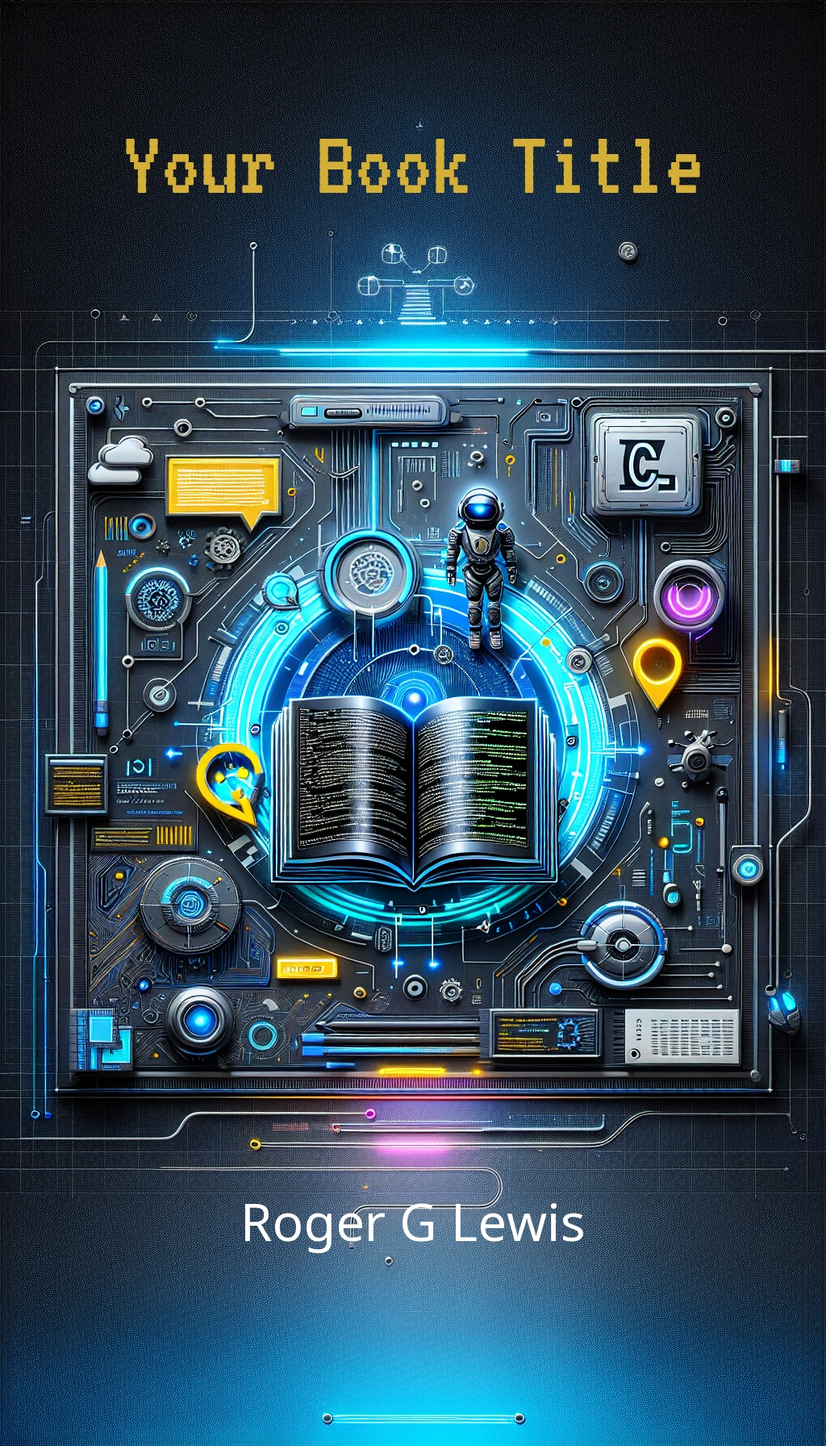
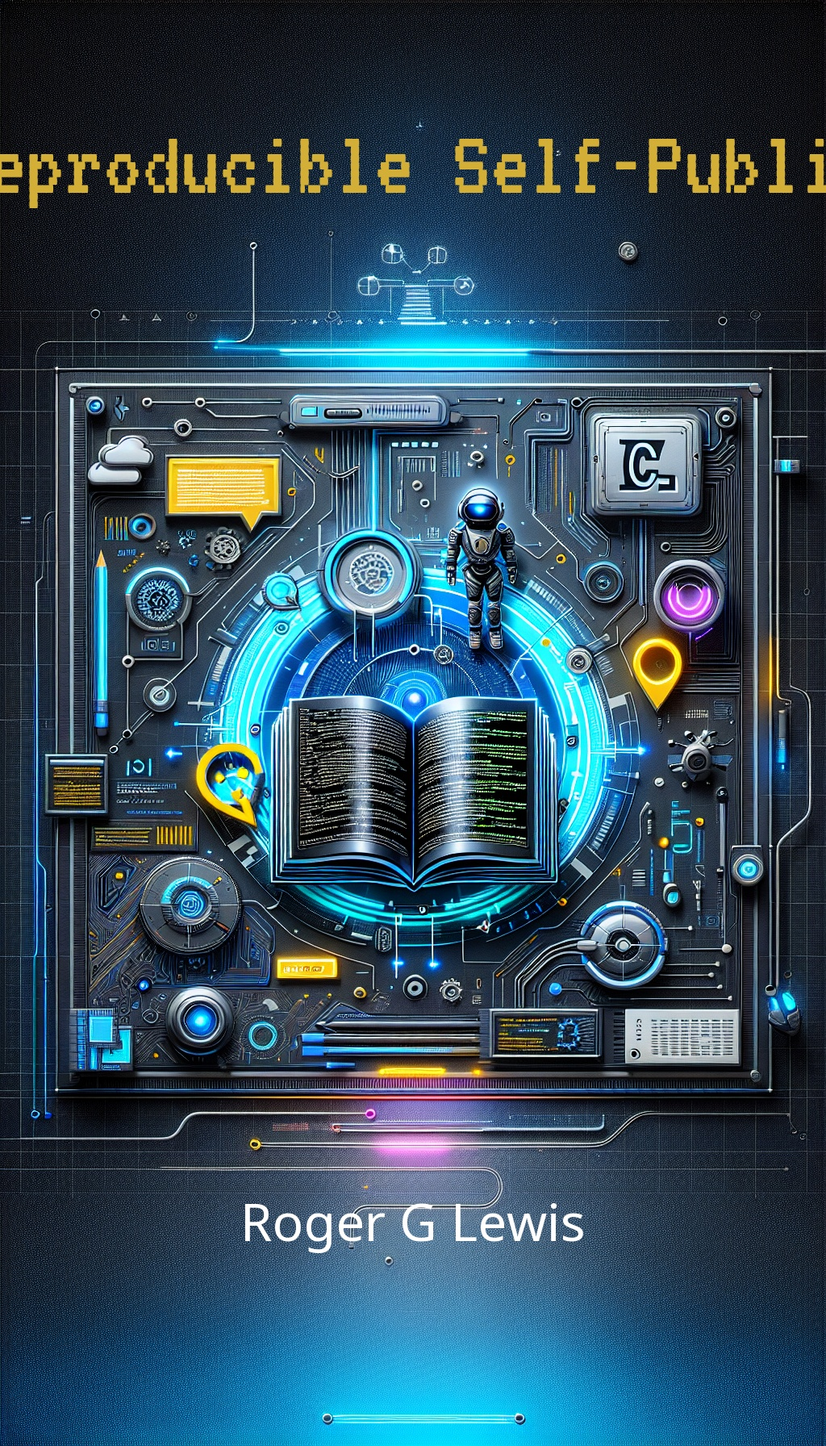
anchor.py: add chapters dir, build commands, path registries; README: anchor block to top; covers updated

Changed region(s): [[0.0, 0.0938, 1.0, 0.1562]]

diff --git a/anchor.py b/anchor.py
@@ -29,6 +29,12 @@ PREAMBLE_TEX        = os.path.join(REPO_ROOT, "preamble.tex")
 PREAMBLE_TEX_BUMPER = os.path.join(REPO_ROOT, "preamble_bumper.tex")
 ANCHOR_MD           = os.path.join(REPO_ROOT, "ANCHOR.md")
 PROGRESS_LOG        = os.path.join(REPO_ROOT, "INTERIM_PROGRESS_LOG.md")
+
+# --- Chapters ---
+CHAPTERS_DIR  = os.path.join(REPO_ROOT, "chapters")
+SERIES_INTRO  = os.path.join(CHAPTERS_DIR, "Ch0.0-SeriesIntroduction.md")
+
+# --- Book Metadata ---
 BOOK_TITLE_STANDARD  = "DoughForge: The Reproducible Self-Publishing Desktop Kit"
 BOOK_TITLE_BUMPER    = "The Conquest of DoughForge"
 BOOK_SUBTITLE_BUMPER = "The Truth Will Set You Free - But First It Will Piss You Off"
@@ -36,6 +42,51 @@ BOOK_AUTHOR          = "Roger G Lewis"
 FOREWORD_AUTHOR      = "Foster Lewis"
 EDITION_BUMPER       = "Bumper Edition"
 EDITION_PRICE        = ""
+
+# --- Session Note ---
+POWERSHELL_CD_NOTE = "  (Run from: cd \"C:\\Users\\peewe\\Documents\\DoughForge\")"
+
+# --- Bumper EPUB Build Command ---
+BUILD_EPUB_BUMPER = (
+    "pandoc"
+    " publication/front_matter/foreword_bumper.md"
+    " publication/front_matter/dedication_bumper.md"
+    " publication/front_matter/preface_bumper.md"
+    " chapters/Ch0.0-SeriesIntroduction.md"
+    " chapters/Ch0.1-UnacknowledgedLegislator.md"
+    " chapters/Ch0.2-TheRationStillArriving.md"
+    " chapters/Ch0.4-TheMoralSign.md"
+    " chapters/Ch0.5-TheDyingBirdAndThePlumage.md"
+    " chapters/Ch0.6-TheFormulaAndTheCounterSpell.md"
+    " chapters/Ch0.7-TheGreySpace.md"
+    " chapters/quickstart.md"
+    " --epub-cover-image=\"assets/cover/front_cover_bumper.jpg\""
+    " --metadata title=\"The Conquest of DoughForge\""
+    " --metadata subtitle=\"The Truth Will Set You Free - But First It Will Piss You Off\""
+    " --metadata author=\"Roger G Lewis\""
+    " -o outputs/conquest_of_doughforge_bumper.epub"
+)
+
+# --- Bumper PDF Build Command ---
+BUILD_PDF_BUMPER = (
+    "pandoc"
+    " publication/front_matter/foreword_bumper.md"
+    " publication/front_matter/dedication_bumper.md"
+    " publication/front_matter/preface_bumper.md"
+    " chapters/Ch0.0-SeriesIntroduction.md"
+    " chapters/Ch0.1-UnacknowledgedLegislator.md"
+    " chapters/Ch0.2-TheRationStillArriving.md"
+    " chapters/Ch0.4-TheMoralSign.md"
+    " chapters/Ch0.5-TheDyingBirdAndThePlumage.md"
+    " chapters/Ch0.6-TheFormulaAndTheCounterSpell.md"
+    " chapters/Ch0.7-TheGreySpace.md"
+    " chapters/quickstart.md"
+    " --pdf-engine=lualatex"
+    " --include-in-header=preamble_bumper.tex"
+    " -o outputs/conquest_of_doughforge_bumper.pdf"
+)
+
+# --- Path Registries ---
 REQUIRED_PATHS = {
     "Repo Root":            REPO_ROOT,
     "Manuscript":           MANUSCRIPT,
@@ -57,6 +108,7 @@ REQUIRED_PATHS_BUMPER = {
     "Dedication Bumper":    DEDICATION_BUMPER,
     "Preface Bumper":       PREFACE_BUMPER,
     "Preamble TeX Bumper":  PREAMBLE_TEX_BUMPER,
+    "Series Intro":         SERIES_INTRO,
 }
 GENERATED_PATHS = {
     "Outputs Dir":  OUTPUTS_DIR,
@@ -71,6 +123,7 @@ GENERATED_PATHS_BUMPER = {
     "EPUB Output Bumper":   OUTPUT_EPUB_BUMPER,
     "DOCX Output Bumper":   OUTPUT_DOCX_BUMPER,
 }
+
 if __name__ == "__main__":
     required_ok = True
     bumper_ok = True

diff --git a/README.md b/README.md
@@ -1,17 +1,3 @@
-## 🔒 Session Anchor — Start Here Every Time
-
-Before every session (human or AI), run:
-
-``powershell
-cd "<YOUR_REPO_ROOT>"
-.\AutoAnchor.ps1
-````n
-Paste the full output into your AI prompt before asking anything else.
-**ANCHOR VERIFIED — no drift detected.** means you are safe to proceed.
-Never skip this step. Never assume the shell is already in the right place.
-
----
-
 # DoughForge
 
 A publishing pipeline for independent authors, built on the W-Anchor Protocol.
@@ -24,60 +10,12 @@ DoughForge is a book project and a toolkit. It contains:
 - **The pipeline** — Pandoc builds producing EPUB, PDF, and DOCX from one Markdown source
 - **The anchor** — `anchor.py`, a path verifier that keeps every session grounded
 
-## Quick Start
+---
 
-### Step 0 — Install the W-Anchor hook (once, after cloning)
+## 🔒 Session Anchor — Start Here Every Time
 
-    .\setup.ps1
-
-This installs anchor.py as an automatic post-checkout hook and stores your
-baseline hash. Every future git checkout re-verifies your file tree automatically.
-
-### Step 1 — Verify your environment before every LLM session
-
-    .\anchor_verify.ps1
-
-Paste the full output into your AI prompt before asking anything else.
-The model is then reading from the same ground truth as your file system.
-
-### Step 1b — Check chapter progress state
+Before every session (human or AI), run:
 
 ```powershell
 cd "C:\Users\peewe\Documents\DoughForge"
-.\anchor-state.ps1
-
-
-### Step 2 — Build commands
-
-Build commands:
-
-    pandoc publication\your_book.md -o outputs\your_book.docx
-    pandoc publication\your_book.md --epub-cover-image="assets\cover\front_cover.jpg" -o outputs\your_book.epub
-    pandoc publication\your_book.md --pdf-engine=lualatex --include-in-header=preamble.tex -o outputs\your_book.pdf
-
-## The W-Anchor Protocol
-
-Context drift is what happens when an AI assistant forgets what you agreed on three hours ago.
-The W-Anchor Protocol prevents it by keeping a single document — ANCHOR.md — that both
-human and AI read at the start of every session.
-
-Full documentation: ANCHOR.md
-
-## Folder Structure
-
-    publication/       the manuscript lives here — edit this, never the outputs
-    outputs/           generated EPUB, PDF, DOCX files — never edit directly
-    assets/cover/      cover images
-    scripts/           build helper scripts
-    docs/              documentation and session archive
-    anchor.py          run this to verify your build environment
-    preamble.tex       LaTeX settings for PDF builds
-    book.yaml          chapter list and EPUB metadata
-
-## Related
-
-reproducible-self-pub-kit: https://github.com/tonefreqhz/reproducible-self-pub-kit
-
-## Licence
-
-MIT
+.\anchor_verify.ps1
